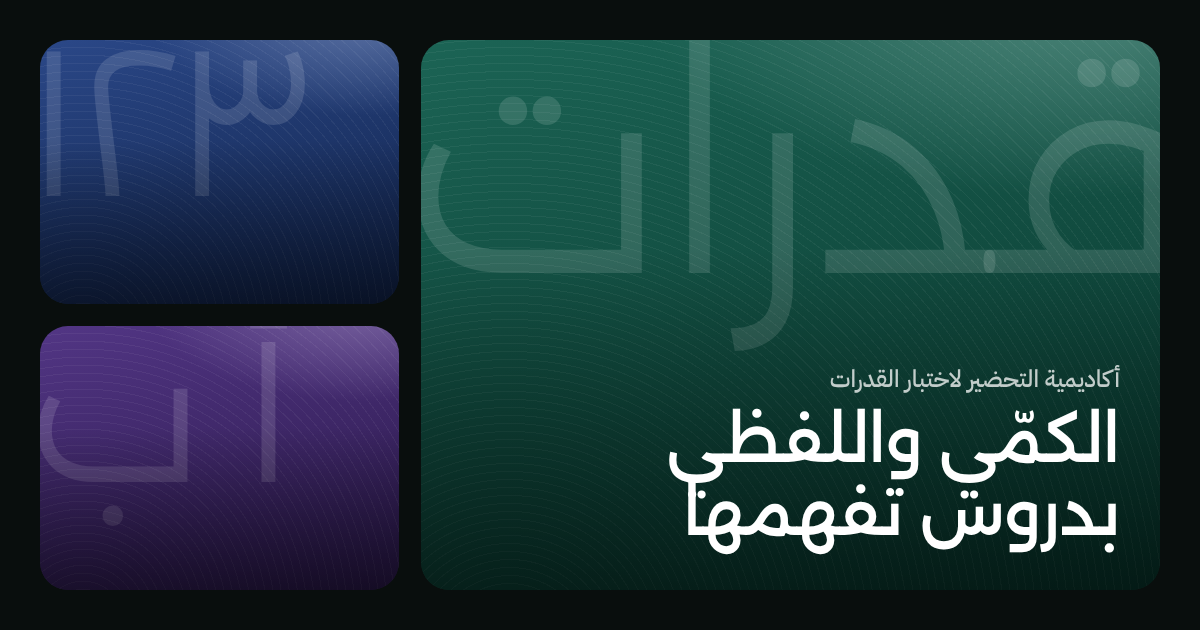
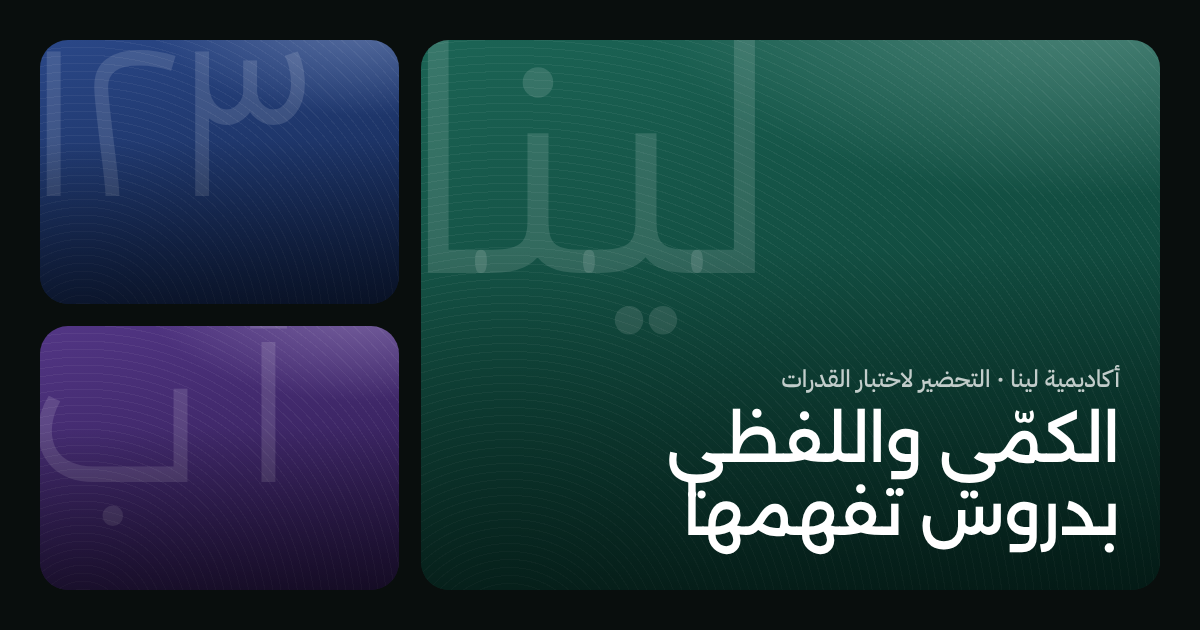
Leena Academy name; no prices on the site
Claude-Session: https://claude.ai/code/session_01BJyxK4VYrVEMNoLiFWu9A1

diff --git a/terms.html b/terms.html
@@ -1,5 +1,5 @@
 <!doctype html><html lang="ar" dir="rtl"><head><meta charset="utf-8"><meta name="viewport" content="width=device-width,initial-scale=1">
-<title>الشروط والأحكام · أكاديمية القدرات</title>
+<title>الشروط والأحكام · أكاديمية لينا</title>
 <style>
 :root{--bg:#F6F5F1;--card:#fff;--ink:#1D2320;--ink2:#5B6660;--line:#E1E3DD;--accent:#1F7A5A}
 @media (prefers-color-scheme:dark){:root{--bg:#121614;--card:#1A201D;--ink:#E8EEEA;--ink2:#9FAEA6;--line:#2B3631;--accent:#5FC59C}}
@@ -8,11 +8,11 @@ main{max-width:720px;margin:0 auto;background:var(--card);border:1px solid var(-
 h1{font-size:26px;margin:0 0 4px} h2{font-size:18px;margin:24px 0 6px} .up{color:var(--ink2);font-size:13px;margin:0 0 12px}
 nav{max-width:720px;margin:0 auto 14px;display:flex;flex-wrap:wrap;gap:6px 14px;font-size:14px} a{color:var(--accent)}
 dl{display:grid;grid-template-columns:auto 1fr;gap:6px 16px} dt{color:var(--ink2)} dd{margin:0;font-weight:600;min-width:0} .nw{white-space:nowrap}
-</style></head><body><nav><a href="./">أكاديمية القدرات</a><a href="privacy.html">سياسة الخصوصية</a><a href="refund.html">سياسة الاسترجاع</a><a href="terms.html">الشروط والأحكام</a><a href="contact.html">تواصل معنا</a></nav><main><h1>الشروط والأحكام</h1><p class="up">آخر تحديث: ٣١ أكتوبر ٢٠٢٦</p>
-<p>باستخدامك أكاديمية القدرات فأنت توافق على هذه الشروط.</p>
+</style></head><body><nav><a href="./">أكاديمية لينا</a><a href="privacy.html">سياسة الخصوصية</a><a href="refund.html">سياسة الاسترجاع</a><a href="terms.html">الشروط والأحكام</a><a href="contact.html">تواصل معنا</a></nav><main><h1>الشروط والأحكام</h1><p class="up">آخر تحديث: ٣١ أكتوبر ٢٠٢٦</p>
+<p>باستخدامك أكاديمية لينا فأنت توافق على هذه الشروط.</p>
 <h2>ما هي المنصة</h2><p>منصة تدريب ذاتي: دروس تفاعلية وتمارين تحلّها بنفسك. لا تمنح شهادات، وليست دورة معتمدة، ولا يوجد فيها مدرّب مباشر.</p>
 <h2>علاقتنا بالاختبار الرسمي</h2><p>المنصة مستقلة، وغير تابعة لهيئة تقويم التعليم والتدريب ولا للمركز الوطني للقياس، والأسئلة من إعدادنا. ولا نضمن درجة معينة في أي اختبار.</p>
 <h2>حسابك</h2><ul><li>الحساب لشخص واحد. مشاركة الحساب أو المحتوى مع غيرك تؤدي إلى إيقافه.</li><li>أنت مسؤول عن رقم جوالك ورمز التحقق.</li></ul>
 <h2>المحتوى</h2><p>الدروس والأسئلة والرسومات ملك للمنصة. لا يجوز نسخها أو نشرها أو بيعها.</p>
-<h2>الاشتراك</h2><p>الاشتراك بسعر ٤٩ ريالًا لمدة ٦ أشهر. الاسترجاع حسب <a href="refund.html">سياسة الاسترجاع</a>.</p>
+<h2>الاشتراك</h2><p>الاشتراك دفعة واحدة، ويفتح الدورات التي اشتركت فيها حتى تاريخ الانتهاء الظاهر في حسابك. السعر يُوضَّح لك قبل الدفع. الاسترجاع حسب <a href="refund.html">سياسة الاسترجاع</a>.</p>
 <h2>التعديل والقانون</h2><p>قد نحدّث هذه الشروط وننشر تاريخ آخر تحديث هنا. تخضع هذه الشروط لأنظمة المملكة العربية السعودية.</p></main></body></html>

diff --git a/refund.html b/refund.html
@@ -1,5 +1,5 @@
 <!doctype html><html lang="ar" dir="rtl"><head><meta charset="utf-8"><meta name="viewport" content="width=device-width,initial-scale=1">
-<title>سياسة الاسترجاع · أكاديمية القدرات</title>
+<title>سياسة الاسترجاع · أكاديمية لينا</title>
 <style>
 :root{--bg:#F6F5F1;--card:#fff;--ink:#1D2320;--ink2:#5B6660;--line:#E1E3DD;--accent:#1F7A5A}
 @media (prefers-color-scheme:dark){:root{--bg:#121614;--card:#1A201D;--ink:#E8EEEA;--ink2:#9FAEA6;--line:#2B3631;--accent:#5FC59C}}
@@ -8,8 +8,8 @@ main{max-width:720px;margin:0 auto;background:var(--card);border:1px solid var(-
 h1{font-size:26px;margin:0 0 4px} h2{font-size:18px;margin:24px 0 6px} .up{color:var(--ink2);font-size:13px;margin:0 0 12px}
 nav{max-width:720px;margin:0 auto 14px;display:flex;flex-wrap:wrap;gap:6px 14px;font-size:14px} a{color:var(--accent)}
 dl{display:grid;grid-template-columns:auto 1fr;gap:6px 16px} dt{color:var(--ink2)} dd{margin:0;font-weight:600;min-width:0} .nw{white-space:nowrap}
-</style></head><body><nav><a href="./">أكاديمية القدرات</a><a href="privacy.html">سياسة الخصوصية</a><a href="refund.html">سياسة الاسترجاع</a><a href="terms.html">الشروط والأحكام</a><a href="contact.html">تواصل معنا</a></nav><main><h1>سياسة الاسترجاع</h1><p class="up">آخر تحديث: ٣١ أكتوبر ٢٠٢٦</p>
-<p>الاشتراك دفعة واحدة بسعر ٤٩ ريالًا، ويفتح كل الدروس لمدة ٦ أشهر، بدون تجديد تلقائي.</p>
+</style></head><body><nav><a href="./">أكاديمية لينا</a><a href="privacy.html">سياسة الخصوصية</a><a href="refund.html">سياسة الاسترجاع</a><a href="terms.html">الشروط والأحكام</a><a href="contact.html">تواصل معنا</a></nav><main><h1>سياسة الاسترجاع</h1><p class="up">آخر تحديث: ٣١ أكتوبر ٢٠٢٦</p>
+<p>الاشتراك دفعة واحدة تفتح الدورات التي اشتركت فيها حتى تاريخ الانتهاء الظاهر في حسابك، بدون تجديد تلقائي.</p>
 <h2>متى تسترجع مبلغك كاملًا</h2><ul>
 <li>خلال ٧ أيام من الدفع، إذا لم تكمل أكثر من ٣ دروس مدفوعة.</li>
 <li>إذا دفعت مرتين بالخطأ، نعيد المبلغ الزائد.</li>

diff --git a/contact.html b/contact.html
@@ -1,5 +1,5 @@
 <!doctype html><html lang="ar" dir="rtl"><head><meta charset="utf-8"><meta name="viewport" content="width=device-width,initial-scale=1">
-<title>تواصل معنا · أكاديمية القدرات</title>
+<title>تواصل معنا · أكاديمية لينا</title>
 <style>
 :root{--bg:#F6F5F1;--card:#fff;--ink:#1D2320;--ink2:#5B6660;--line:#E1E3DD;--accent:#1F7A5A}
 @media (prefers-color-scheme:dark){:root{--bg:#121614;--card:#1A201D;--ink:#E8EEEA;--ink2:#9FAEA6;--line:#2B3631;--accent:#5FC59C}}
@@ -8,6 +8,6 @@ main{max-width:720px;margin:0 auto;background:var(--card);border:1px solid var(-
 h1{font-size:26px;margin:0 0 4px} h2{font-size:18px;margin:24px 0 6px} .up{color:var(--ink2);font-size:13px;margin:0 0 12px}
 nav{max-width:720px;margin:0 auto 14px;display:flex;flex-wrap:wrap;gap:6px 14px;font-size:14px} a{color:var(--accent)}
 dl{display:grid;grid-template-columns:auto 1fr;gap:6px 16px} dt{color:var(--ink2)} dd{margin:0;font-weight:600;min-width:0} .nw{white-space:nowrap}
-</style></head><body><nav><a href="./">أكاديمية القدرات</a><a href="privacy.html">سياسة الخصوصية</a><a href="refund.html">سياسة الاسترجاع</a><a href="terms.html">الشروط والأحكام</a><a href="contact.html">تواصل معنا</a></nav><main><h1>تواصل معنا</h1><p class="up">آخر تحديث: ٣١ أكتوبر ٢٠٢٦</p>
+</style></head><body><nav><a href="./">أكاديمية لينا</a><a href="privacy.html">سياسة الخصوصية</a><a href="refund.html">سياسة الاسترجاع</a><a href="terms.html">الشروط والأحكام</a><a href="contact.html">تواصل معنا</a></nav><main><h1>تواصل معنا</h1><p class="up">آخر تحديث: ٣١ أكتوبر ٢٠٢٦</p>
 <p>نسعد بأسئلتك وملاحظاتك، ونرد خلال ٣ أيام عمل.</p>
 <dl><dt>البريد</dt><dd><bdi dir="ltr" class="nw">thamr-10@hotmail.com</bdi></dd><dt>الجهة المالكة</dt><dd>مؤسسة عبدالعزيز عوض الحارثي للاتصالات وتقنية المعلومات</dd><dt>رقم السجل التجاري</dt><dd>7054143669</dd><dt>المدينة</dt><dd>جدة</dd></dl></main></body></html>

diff --git a/privacy.html b/privacy.html
@@ -1,5 +1,5 @@
 <!doctype html><html lang="ar" dir="rtl"><head><meta charset="utf-8"><meta name="viewport" content="width=device-width,initial-scale=1">
-<title>سياسة الخصوصية · أكاديمية القدرات</title>
+<title>سياسة الخصوصية · أكاديمية لينا</title>
 <style>
 :root{--bg:#F6F5F1;--card:#fff;--ink:#1D2320;--ink2:#5B6660;--line:#E1E3DD;--accent:#1F7A5A}
 @media (prefers-color-scheme:dark){:root{--bg:#121614;--card:#1A201D;--ink:#E8EEEA;--ink2:#9FAEA6;--line:#2B3631;--accent:#5FC59C}}
@@ -8,7 +8,7 @@ main{max-width:720px;margin:0 auto;background:var(--card);border:1px solid var(-
 h1{font-size:26px;margin:0 0 4px} h2{font-size:18px;margin:24px 0 6px} .up{color:var(--ink2);font-size:13px;margin:0 0 12px}
 nav{max-width:720px;margin:0 auto 14px;display:flex;flex-wrap:wrap;gap:6px 14px;font-size:14px} a{color:var(--accent)}
 dl{display:grid;grid-template-columns:auto 1fr;gap:6px 16px} dt{color:var(--ink2)} dd{margin:0;font-weight:600;min-width:0} .nw{white-space:nowrap}
-</style></head><body><nav><a href="./">أكاديمية القدرات</a><a href="privacy.html">سياسة الخصوصية</a><a href="refund.html">سياسة الاسترجاع</a><a href="terms.html">الشروط والأحكام</a><a href="contact.html">تواصل معنا</a></nav><main><h1>سياسة الخصوصية</h1><p class="up">آخر تحديث: ٣١ أكتوبر ٢٠٢٦</p>
+</style></head><body><nav><a href="./">أكاديمية لينا</a><a href="privacy.html">سياسة الخصوصية</a><a href="refund.html">سياسة الاسترجاع</a><a href="terms.html">الشروط والأحكام</a><a href="contact.html">تواصل معنا</a></nav><main><h1>سياسة الخصوصية</h1><p class="up">آخر تحديث: ٣١ أكتوبر ٢٠٢٦</p>
 <p>نحترم خصوصيتك. هذه الصفحة تشرح ما نجمعه عنك ولماذا.</p>
 <h2>ما نجمعه</h2><ul>
 <li><b>رقم الجوال:</b> لتسجيل الدخول وإرسال رمز التحقق عبر واتساب.</li>

diff --git a/index.html b/index.html
@@ -3,11 +3,11 @@
 <head>
 <meta charset="utf-8">
 <meta name="viewport" content="width=device-width,initial-scale=1,viewport-fit=cover">
-<title>قدرات · أكاديمية التحضير لاختبار القدرات</title>
+<title>أكاديمية لينا · التحضير لاختبار القدرات</title>
 <meta name="description" content="استعد لاختبار القدرات بقسميه الكمّي واللفظي: دروس تفاعلية تشرح الفكرة قبل التمرين، وتدريب لا ينتهي، ودرجة متوقعة تتحدث مع كل إجابة.">
 <meta name="theme-color" content="#0D5A4A">
 <meta property="og:type" content="website">
-<meta property="og:title" content="قدرات · أكاديمية التحضير لاختبار القدرات">
+<meta property="og:title" content="أكاديمية لينا · التحضير لاختبار القدرات">
 <meta property="og:description" content="دروس تفاعلية للكمّي واللفظي، وتدريب لا ينتهي، ودرجتك المتوقعة. ابدأ مجانًا.">
 <meta property="og:image" content="og.png">
 <meta name="twitter:card" content="summary_large_image">
@@ -15182,7 +15182,7 @@ window.AcademyCourses[COURSE.id] = { COURSE, mount, init, addBank, api: { S, per
     if (fromId && C[fromId]) syncFrom(fromId);
     if (location.hash === '#bank') { history.replaceState(null, '', location.pathname + location.search); }
     screen();
-    hud(`<span class="wordmark">قدرات</span><span class="sec">الأكاديمية</span>`);
+    hud(`<span class="wordmark">لينا</span><span class="sec">أكاديمية القدرات</span>`);
     const w = el('div', 'home');
     /* 1 · continue */
     const cur = C[A.last] ? A.last : SECTIONS[0].id, sec = SECTIONS.find(s => s.id === cur), nx = nextOf(cur);
